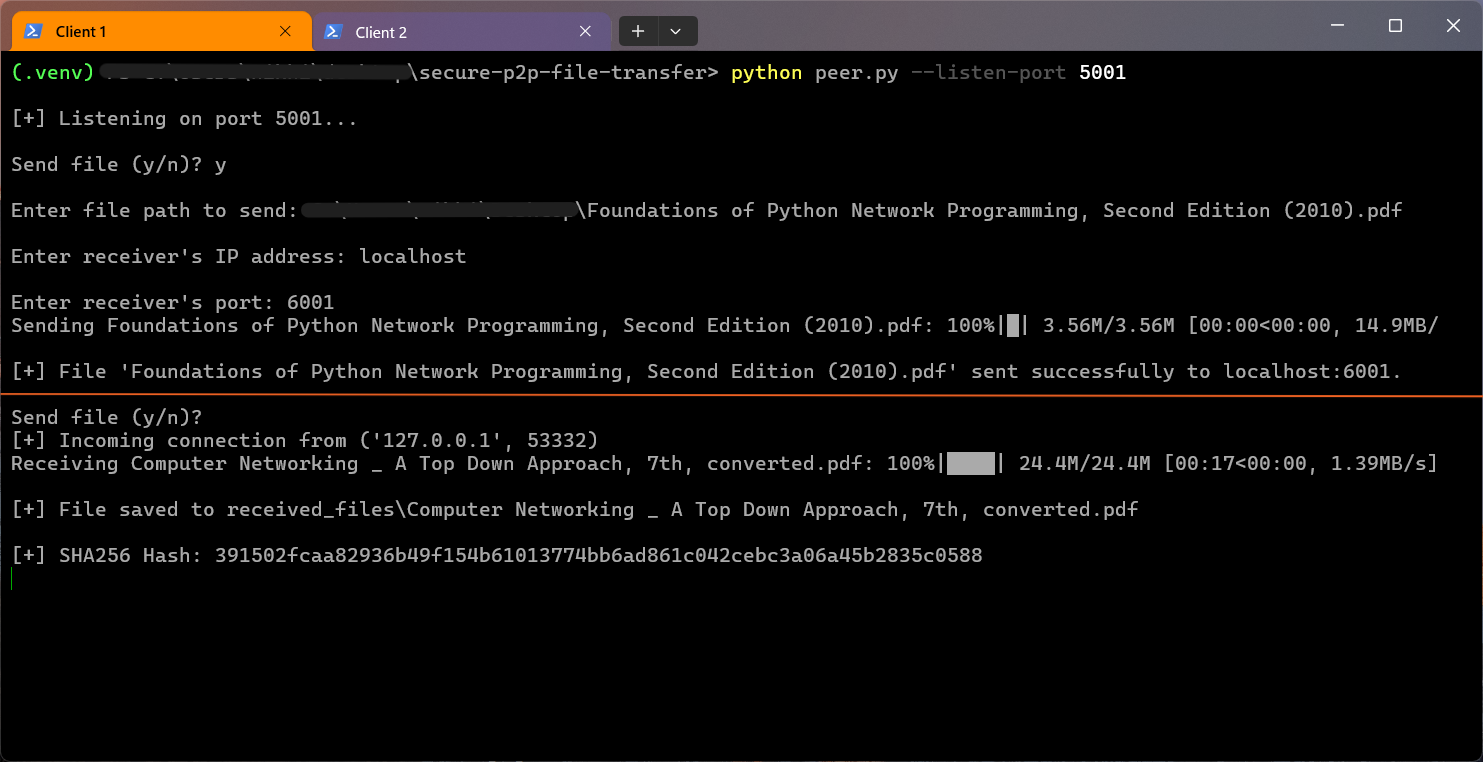
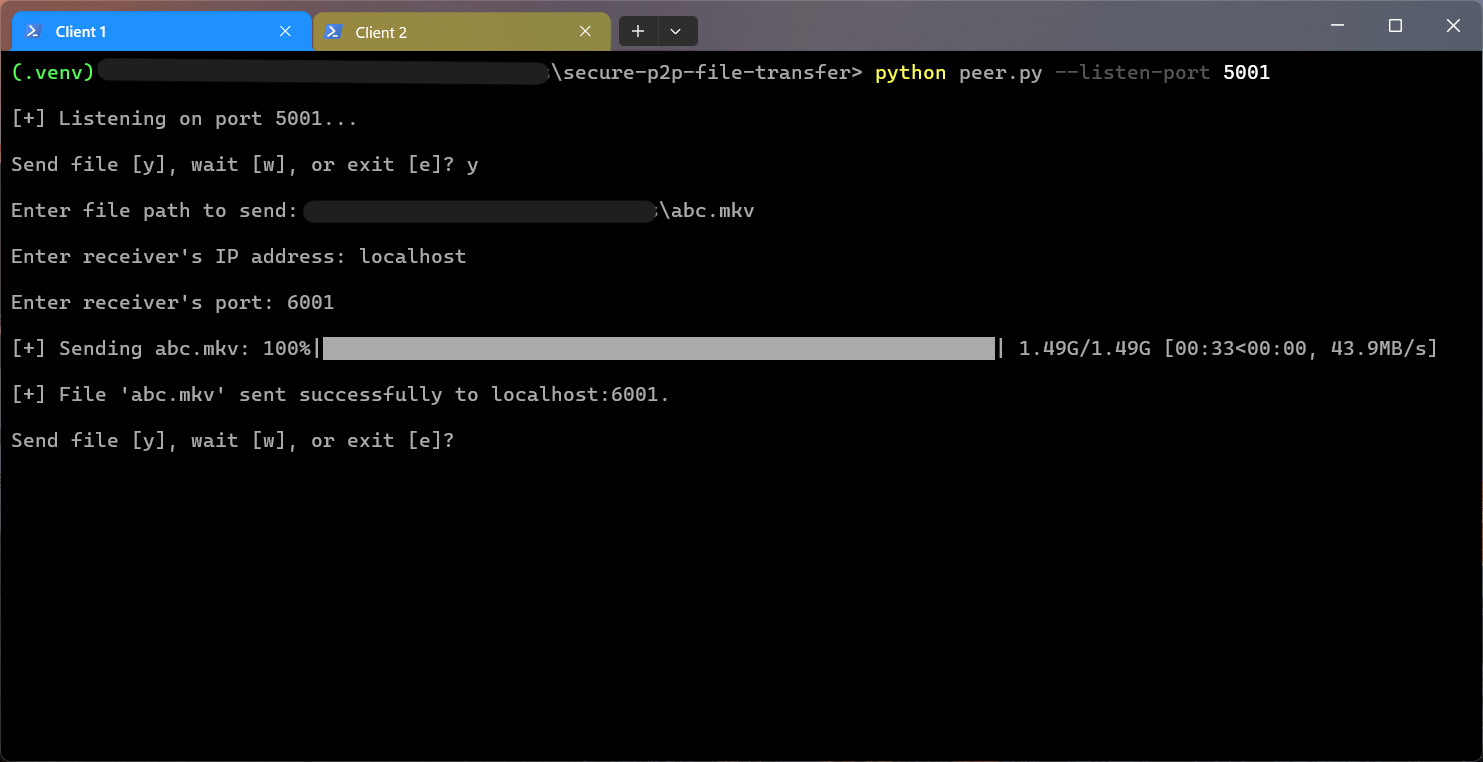
Add performance benchmark: 1.5GB file transfer in 33s with ~15MB RAM usage

diff --git a/peer.py b/peer.py
@@ -13,6 +13,7 @@ from crypto.rsa_crypto import (
 )
 from crypto.aes_crypto import generate_aes_key, encrypt_chunk_with_aes, decrypt_chunk_with_aes
 from utils.file_utils import ensure_dir, sha256_digest_stream, is_valid_ip, is_valid_port
+from utils.file_utils import CHUNK_SIZE
 
 PRIVATE_KEY_PATH = 'keys/private_key.pem'
 PUBLIC_KEY_PATH = 'keys/public_keys.pem'
@@ -62,11 +63,11 @@ def peer_listener():
                 with open(file_path, 'wb') as f_out, tqdm(total=total_size, desc=f"[+] Receiving {file_name}", unit="B", unit_scale=True) as pbar:
                     received_bytes = 0
                     while received_bytes < total_size:
-                        chunk_size = int.from_bytes(client_socket.recv(4), 'big')
+                        rcv_chunk_size = int.from_bytes(client_socket.recv(4), 'big')
                         encrypted_chunk = b""
                         
-                        while len(encrypted_chunk) < chunk_size:
-                            part = client_socket.recv(chunk_size - len(encrypted_chunk))
+                        while len(encrypted_chunk) < rcv_chunk_size:
+                            part = client_socket.recv(rcv_chunk_size - len(encrypted_chunk))
                             if not part:
                                 raise Exception("\n[!] Connection lost during transfer.")
                             encrypted_chunk += part
@@ -90,10 +91,7 @@ def peer_listener():
 
 def send_file(file_path, peer_ip, peer_port):
     try:
-        if not os.path.isfile(file_path):
-            print(f"\n[!] File '{file_path}' does not exist.")
-            return
-
+        
         file_name = os.path.basename(file_path)
         file_extension = os.path.splitext(file_name)[1].lower()
 
@@ -118,7 +116,7 @@ def send_file(file_path, peer_ip, peer_port):
         print()
 
         with open(file_path, 'rb') as f, tqdm(total=file_size, desc=f"[+] Sending {file_name}", unit="B", unit_scale=True) as pbar:
-            for chunk in iter(lambda: f.read(4096), b''):
+            for chunk in iter(lambda: f.read(CHUNK_SIZE), b''):
                 encrypted_chunk = encrypt_chunk_with_aes(chunk, aes_key, file_extension)
                 client_socket.sendall(len(encrypted_chunk).to_bytes(4, 'big'))
                 client_socket.sendall(encrypted_chunk)
@@ -130,29 +128,46 @@ def send_file(file_path, peer_ip, peer_port):
     except Exception as e:
         print(f"\n[!] Failed to send file: {str(e)}\n{traceback.format_exc()}")
 
+
 if __name__ == '__main__':
-    threading.Thread(target=peer_listener, daemon=True).start()
-    sleep(1)
+    
+    try:
+        threading.Thread(target=peer_listener, daemon=True).start()
+        sleep(0.5)
 
-    while True:
-        user_input = input("\nSend file (y/n)? ").strip().lower()
+        while True:
+            user_input = input("\nSend file [y], wait [w], or exit [e]? ").strip().lower()
 
-        if user_input == 'y':
-            file_path = input("\nEnter file path to send: ").strip()
-            peer_ip = input("\nEnter receiver's IP address: ").strip()
-            peer_port_input = input("\nEnter receiver's port: ").strip()
-
-            if not is_valid_port(peer_port_input) or not is_valid_ip(peer_ip):
-                print("\n[!] Receiver IP or port not correct/specified.")
-                continue
-
-            peer_port = int(peer_port_input)
-            send_file(file_path, peer_ip, peer_port)
-
-        else:
-            print("\n[INFO] Waiting for incoming transfers.")
-
-            user_input = input("\nPress 'e' to exit / 'c' to continue: ").strip().lower()
             if user_input == 'e':
                 print("\n[INFO] Exiting...")
                 break
+
+            elif user_input == 'y':
+                file_path = input("\nEnter file path to send: ").strip()
+                peer_ip = input("\nEnter receiver's IP address: ").strip()
+                peer_port_input = input("\nEnter receiver's port: ").strip()
+
+                if not is_valid_port(peer_port_input) or not is_valid_ip(peer_ip):
+                    print("\n[!] Receiver IP or port not correct/specified.")
+                    continue
+
+                if not os.path.isfile(file_path):
+                    print("\n[!] File does not exist.")
+                    continue
+
+                peer_port = int(peer_port_input)
+                send_file(file_path, peer_ip, peer_port)
+
+            elif user_input == 'w':
+                print("\n[INFO] Waiting for incoming transfers...")
+
+            else:
+                print("\n[!] Invalid input. Use 'y', 'w', or 'e'.")
+
+    except KeyboardInterrupt:
+        print("\n[INFO] Exiting by keyboard interrupt.")
+        
+    except Exception as e:
+        print(f"\n[!] An error occurred: {str(e)}\n{traceback.format_exc()}")
+
+        

diff --git a/utils/file_utils.py b/utils/file_utils.py
@@ -2,11 +2,13 @@ import os
 import hashlib
 import ipaddress
 
+CHUNK_SIZE = 32 * 1024
+
 def sha256_digest_stream(path: str) -> str:
 
     hasher = hashlib.sha256()
     with open(path, 'rb') as f:
-        for chunk in iter(lambda: f.read(4096), b''):
+        for chunk in iter(lambda: f.read(CHUNK_SIZE), b''):
             hasher.update(chunk)
 
     return hasher.hexdigest()
